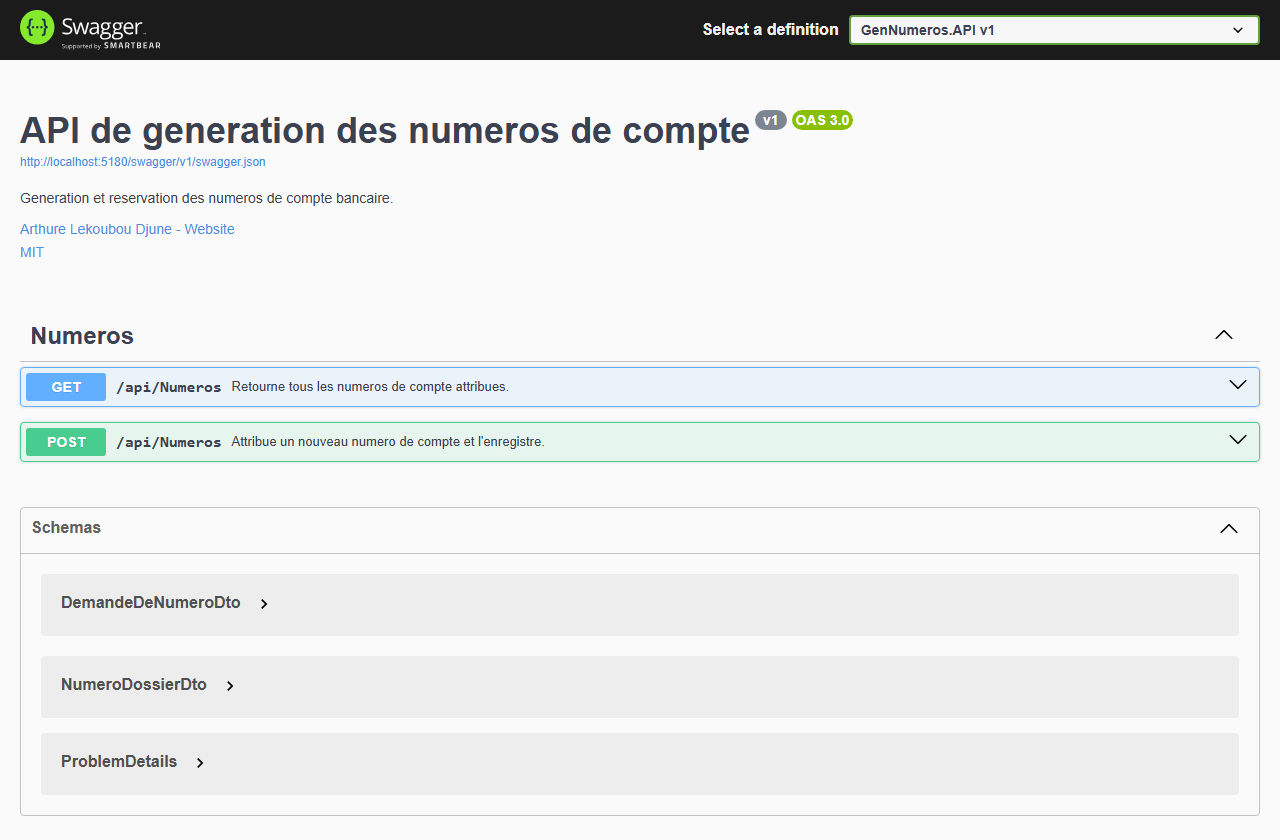
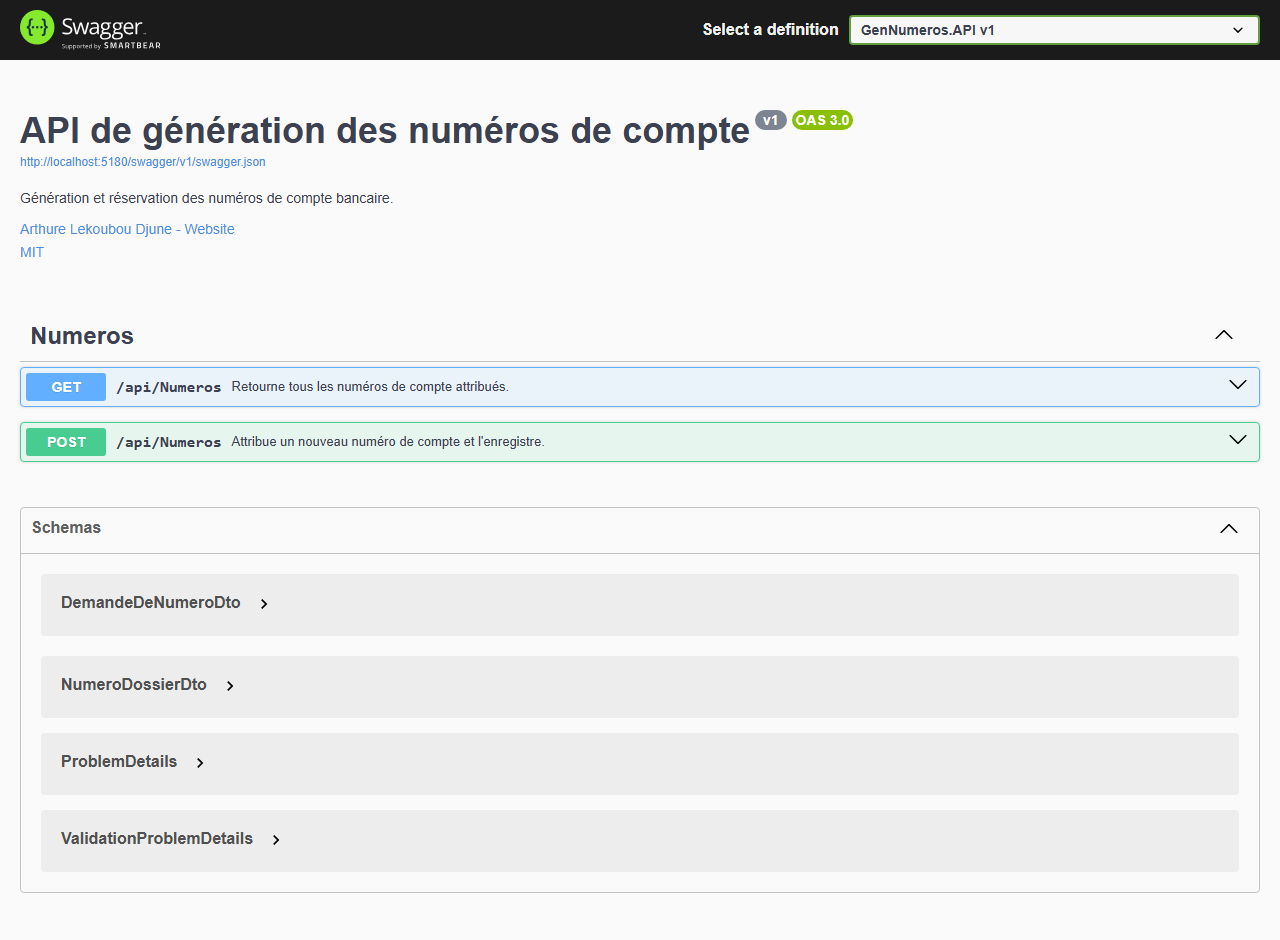
Document the API in proper French and return problem details
The summaries, the validation messages and the title carry their
accents. Errors answer with a ProblemDetails rather than a plain
string, and the schemas now carry the documentation written in the
core project.

Seven files also held doubled carriage returns, which split the XML
comments in two and kept them out of the generated documentation.

diff --git a/src/GenNumeros.API/Controllers/NumerosController.cs b/src/GenNumeros.API/Controllers/NumerosController.cs
@@ -1,4 +1,4 @@
-using GenNumeros.ApplicationCore.DTOs;
+using GenNumeros.ApplicationCore.DTOs;
 using GenNumeros.ApplicationCore.Entites;
 using GenNumeros.ApplicationCore.Interfaces;
 using Microsoft.AspNetCore.Mvc;
@@ -7,6 +7,7 @@ namespace GenNumeros.API.Controllers
 {
     [Route("api/[controller]")]
     [ApiController]
+    [Produces("application/json")]
     public class NumerosController : ControllerBase
     {
         private readonly INumerosService _numeros;
@@ -17,14 +18,14 @@ namespace GenNumeros.API.Controllers
         }
 
         /// <summary>
-        /// Retourne tous les numeros de compte attribues.
+        /// Retourne tous les numéros de compte attribués.
         /// </summary>
         /// <remarks>
-        /// La liste est rendue du plus recent au plus ancien, avec l'etat de
-        /// chaque numero et l'identifiant de la personne qui l'a demande.
+        /// La liste est rendue du plus récent au plus ancien, avec l'état de
+        /// chaque numéro et l'identifiant de la personne qui l'a demandé.
         /// </remarks>
-        /// <returns>La liste complete des numeros attribues.</returns>
-        /// <response code="200">Liste retournee, vide si aucun numero n'a encore ete attribue.</response>
+        /// <returns>La liste complète des numéros attribués.</returns>
+        /// <response code="200">Liste retournée, vide si aucun numéro n'a encore été attribué.</response>
         [HttpGet]
         [ProducesResponseType(typeof(IEnumerable<NumeroDossierDto>), StatusCodes.Status200OK)]
         public async Task<IEnumerable<NumeroDossierDto>> Get()
@@ -35,13 +36,13 @@ namespace GenNumeros.API.Controllers
         }
 
         /// <summary>
-        /// Attribue un nouveau numero de compte et l'enregistre.
+        /// Attribue un nouveau numéro de compte et l'enregistre.
         /// </summary>
         /// <remarks>
-        /// Le numero suit le format XXX-XX-XXXXX-XXXXXX : le numero de la
-        /// banque, celui du systeme appelant, celui de la succursale, puis un
-        /// numero de compte tire au hasard dont les deux derniers chiffres
-        /// forment un nombre pair. Le numero attribue est unique et son etat
+        /// Le numéro suit le format XXX-XX-XXXXX-XXXXXX : le numéro de la
+        /// banque, celui du système appelant, celui de la succursale, puis un
+        /// numéro de compte tiré au hasard dont les deux derniers chiffres
+        /// forment un nombre pair. Le numéro attribué est unique et son état
         /// est Nouveau.
         ///
         /// Exemple de demande :
@@ -54,20 +55,25 @@ namespace GenNumeros.API.Controllers
         ///     }
         ///
         /// </remarks>
-        /// <param name="demande">Le systeme appelant, la succursale et le demandeur.</param>
-        /// <returns>Le numero attribue.</returns>
-        /// <response code="201">Numero attribue et enregistre.</response>
-        /// <response code="400">Demande incomplete ou mal formee.</response>
-        /// <response code="409">Aucun numero libre n'a pu etre tire pour cette succursale.</response>
+        /// <param name="demande">Le système appelant, la succursale et le demandeur.</param>
+        /// <returns>Le numéro attribué.</returns>
+        /// <response code="201">Numéro attribué et enregistré.</response>
+        /// <response code="400">Demande incomplète ou mal formée.</response>
+        /// <response code="409">Aucun numéro libre n'a pu être tiré pour cette succursale.</response>
         [HttpPost]
         [ProducesResponseType(typeof(NumeroDossierDto), StatusCodes.Status201Created)]
-        [ProducesResponseType(StatusCodes.Status400BadRequest)]
-        [ProducesResponseType(StatusCodes.Status409Conflict)]
+        [ProducesResponseType(typeof(ValidationProblemDetails), StatusCodes.Status400BadRequest)]
+        [ProducesResponseType(typeof(ProblemDetails), StatusCodes.Status409Conflict)]
         public async Task<ActionResult<NumeroDossierDto>> Post([FromBody] DemandeDeNumeroDto demande)
         {
             if (demande == null)
             {
-                return BadRequest("La demande est absente.");
+                return BadRequest(new ProblemDetails
+                {
+                    Status = StatusCodes.Status400BadRequest,
+                    Title = "Demande absente.",
+                    Detail = "Le corps de la requête ne porte aucune demande."
+                });
             }
 
             NumeroDossier? attribue = await _numeros.GenererUnNumero(
@@ -75,7 +81,12 @@ namespace GenNumeros.API.Controllers
 
             if (attribue == null)
             {
-                return Conflict("Aucun numero libre n'a pu etre attribue pour cette demande.");
+                return Conflict(new ProblemDetails
+                {
+                    Status = StatusCodes.Status409Conflict,
+                    Title = "Aucun numéro libre.",
+                    Detail = "Aucun numéro libre n'a pu être attribué pour cette demande."
+                });
             }
 
             return CreatedAtAction(nameof(Get), new { id = attribue.Id }, VersDto(attribue));

diff --git a/src/GenNumeros.ApplicationCore/DTOs/DemandeDeNumeroDto.cs b/src/GenNumeros.ApplicationCore/DTOs/DemandeDeNumeroDto.cs
@@ -1,31 +1,34 @@
-using System.ComponentModel.DataAnnotations;
+using System.ComponentModel.DataAnnotations;
 
 namespace GenNumeros.ApplicationCore.DTOs
 {
     /// <summary>
-    /// Ce qu'un systeme appelant doit fournir pour obtenir un numero.
+    /// Ce qu'un système appelant doit fournir pour obtenir un numéro.
     /// </summary>
     public class DemandeDeNumeroDto
     {
         /// <summary>
-        /// Numero du systeme appelant, sur deux chiffres. Exemple : 12.
+        /// Numéro du système appelant, sur deux chiffres.
         /// </summary>
-        [Required(ErrorMessage = "Le numero du systeme appelant est requis.")]
-        [RegularExpression("^[0-9]{2}$", ErrorMessage = "Le numero du systeme appelant compte deux chiffres.")]
+        /// <example>12</example>
+        [Required(ErrorMessage = "Le numéro du système appelant est requis.")]
+        [RegularExpression("^[0-9]{2}$", ErrorMessage = "Le numéro du système appelant compte deux chiffres.")]
         public string SystemeAppelant { get; set; } = string.Empty;
 
         /// <summary>
-        /// Numero de la succursale, sur cinq chiffres. Exemple : 45400.
+        /// Numéro de la succursale, sur cinq chiffres.
         /// </summary>
-        [Required(ErrorMessage = "Le numero de succursale est requis.")]
-        [RegularExpression("^[0-9]{5}$", ErrorMessage = "Le numero de succursale compte cinq chiffres.")]
+        /// <example>45400</example>
+        [Required(ErrorMessage = "Le numéro de succursale est requis.")]
+        [RegularExpression("^[0-9]{5}$", ErrorMessage = "Le numéro de succursale compte cinq chiffres.")]
         public string Succursale { get; set; } = string.Empty;
 
         /// <summary>
-        /// Identifiant de la personne qui demande le numero.
+        /// Identifiant de la personne qui demande le numéro.
         /// </summary>
+        /// <example>employe.limoilou</example>
         [Required(ErrorMessage = "L'identifiant du demandeur est requis.")]
-        [StringLength(50, ErrorMessage = "L'identifiant du demandeur ne depasse pas 50 caracteres.")]
+        [StringLength(50, ErrorMessage = "L'identifiant du demandeur ne dépasse pas 50 caractères.")]
         public string IdDemandeur { get; set; } = string.Empty;
     }
 }

diff --git a/src/GenNumeros.API/Program.cs b/src/GenNumeros.API/Program.cs
@@ -1,5 +1,6 @@
-using System.Reflection;
+using System.Reflection;
 using System.Text.Json.Serialization;
+using GenNumeros.ApplicationCore.DTOs;
 using GenNumeros.ApplicationCore.Interfaces;
 using GenNumeros.ApplicationCore.Services;
 using GenNumeros.Infrastructure.Data;
@@ -31,9 +32,9 @@ namespace GenNumeros.API
             {
                 c.SwaggerDoc("v1", new OpenApiInfo
                 {
-                    Title = "API de generation des numeros de compte",
+                    Title = "API de génération des numéros de compte",
                     Version = "v1",
-                    Description = "Generation et reservation des numeros de compte bancaire.",
+                    Description = "Génération et réservation des numéros de compte bancaire.",
                     License = new OpenApiLicense
                     {
                         Name = builder.Configuration["Documentation:Licence"],
@@ -47,9 +48,19 @@ namespace GenNumeros.API
                 });
 
                 // Les commentaires du code deviennent la documentation de
-                // chaque methode exposee.
-                string documentation = Assembly.GetExecutingAssembly().GetName().Name + ".xml";
-                c.IncludeXmlComments(Path.Combine(AppContext.BaseDirectory, documentation));
+                // chaque methode exposee, et ceux du coeur celle des schemas
+                // qu'elle echange.
+                Assembly[] assemblages = { typeof(Program).Assembly, typeof(DemandeDeNumeroDto).Assembly };
+
+                foreach (Assembly assemblage in assemblages)
+                {
+                    string documentation = Path.Combine(AppContext.BaseDirectory, assemblage.GetName().Name + ".xml");
+
+                    if (File.Exists(documentation))
+                    {
+                        c.IncludeXmlComments(documentation);
+                    }
+                }
             });
 
             builder.Services.AddDbContext<GenNumeroContext>(options =>

diff --git a/src/Client.MVC/Models/NumeroDossier.cs b/src/Client.MVC/Models/NumeroDossier.cs
@@ -1,22 +1,22 @@
-using System.ComponentModel.DataAnnotations;
-
-namespace Client.MVC.Models
-{
-    public class NumeroDossier
-    {
-        public int Id { get; set; }
-
-        [Display(Name = "Numéro de compte")]
-        public string NumeroCompte { get; set; } = string.Empty;
-
-        [Display(Name = "Demandeur")]
-        public string IdDemandeur { get; set; } = string.Empty;
-
-        [Display(Name = "Statut")]
-        public string Statut { get; set; } = string.Empty;
-
-        [Display(Name = "Attribué le")]
-        [DisplayFormat(DataFormatString = "{0:yyyy-MM-dd HH:mm}")]
-        public DateTime DateCreation { get; set; }
-    }
-}
+using System.ComponentModel.DataAnnotations;
+
+namespace Client.MVC.Models
+{
+    public class NumeroDossier
+    {
+        public int Id { get; set; }
+
+        [Display(Name = "Numéro de compte")]
+        public string NumeroCompte { get; set; } = string.Empty;
+
+        [Display(Name = "Demandeur")]
+        public string IdDemandeur { get; set; } = string.Empty;
+
+        [Display(Name = "Statut")]
+        public string Statut { get; set; } = string.Empty;
+
+        [Display(Name = "Attribué le")]
+        [DisplayFormat(DataFormatString = "{0:yyyy-MM-dd HH:mm}")]
+        public DateTime DateCreation { get; set; }
+    }
+}

diff --git a/src/GenNumeros.ApplicationCore/DTOs/NumeroDossierDto.cs b/src/GenNumeros.ApplicationCore/DTOs/NumeroDossierDto.cs
@@ -1,20 +1,24 @@
-namespace GenNumeros.ApplicationCore.DTOs
+namespace GenNumeros.ApplicationCore.DTOs
 {
     /// <summary>
-    /// Un numero attribue, tel que les systemes appelants le lisent.
+    /// Un numéro attribué, tel que les systèmes appelants le lisent.
     /// </summary>
     public class NumeroDossierDto
     {
         /// <summary>Identifiant du dossier.</summary>
+        /// <example>1</example>
         public int Id { get; set; }
 
-        /// <summary>Le numero attribue, au format XXX-XX-XXXXX-XXXXXX.</summary>
+        /// <summary>Le numéro attribué, au format XXX-XX-XXXXX-XXXXXX.</summary>
+        /// <example>145-12-45400-232054</example>
         public string NumeroCompte { get; set; } = string.Empty;
 
-        /// <summary>Identifiant de la personne qui l'a demande.</summary>
+        /// <summary>Identifiant de la personne qui l'a demandé.</summary>
+        /// <example>employe.limoilou</example>
         public string IdDemandeur { get; set; } = string.Empty;
 
-        /// <summary>Etat du numero. Vaut Nouveau a l'attribution.</summary>
+        /// <summary>État du numéro. Vaut Nouveau à l'attribution.</summary>
+        /// <example>Nouveau</example>
         public string Statut { get; set; } = string.Empty;
 
         /// <summary>Moment de l'attribution.</summary>

diff --git a/README.md b/README.md
@@ -25,7 +25,7 @@ ASP.NET Core 8, Entity Framework Core 8, SQLite, Swagger. The site is in French.
 
 **The API**
 
-![The Swagger page of the numbers API: one operation to list the numbers, one to ask for a new one, each with its French summary, and the three schemas the API exchanges](docs/api-swagger.png)
+![The Swagger page of the numbers API: one operation to list the numbers, one to ask for a new one, each with its French summary, and the four schemas the API exchanges](docs/api-swagger.png)
 
 ## How it works
 
